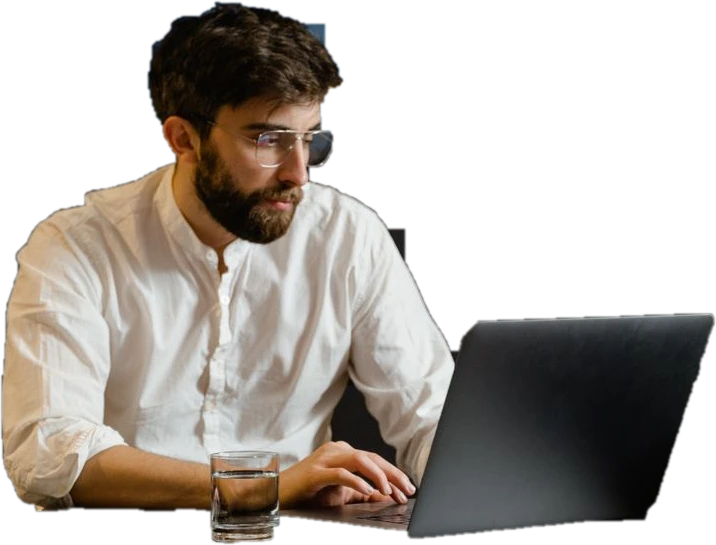
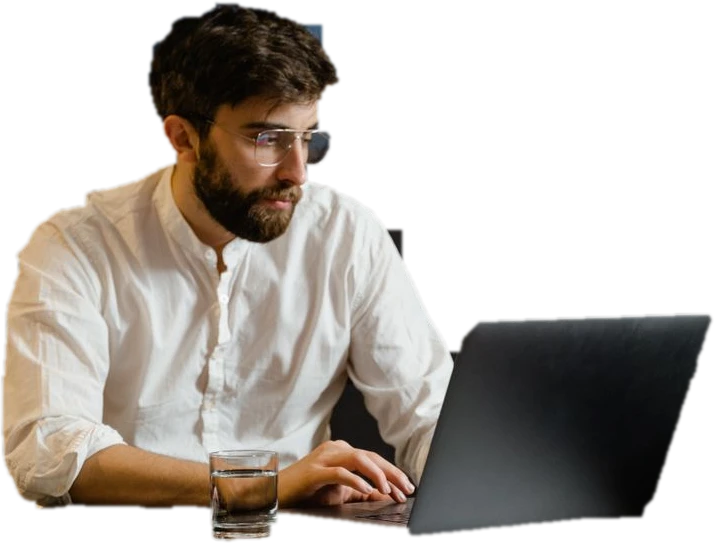
Encabezado: disco de luz tras el analista, recorte más limpio y tarjeta reubicada

diff --git a/frontend/src/styles/layout.css b/frontend/src/styles/layout.css
@@ -216,7 +216,7 @@
   background: url('../assets/fondo.jpg') right center / cover no-repeat;
   filter: grayscale(1) contrast(1.4) brightness(1.15);
   mix-blend-mode: soft-light;
-  opacity: 0.9;
+  opacity: 0.6;
   /* Se desvanece hacia la izquierda para que el texto se lea limpio. */
   -webkit-mask-image: linear-gradient(90deg, rgba(0, 0, 0, 0.18) 0%, rgba(0, 0, 0, 0.35) 38%, #000 72%);
   mask-image: linear-gradient(90deg, rgba(0, 0, 0, 0.18) 0%, rgba(0, 0, 0, 0.35) 38%, #000 72%);
@@ -356,6 +356,32 @@
   position: relative;
   align-self: end;
   margin: 0 0 -56px 24px;
+  isolation: isolate;
+}
+
+/* Disco de luz con un anillo fino detrás del analista: lo integra al rojo. */
+.hero-figura::before,
+.hero-figura::after {
+  content: '';
+  position: absolute;
+  left: 50%;
+  z-index: -1;
+  aspect-ratio: 1;
+  border-radius: 50%;
+  transform: translateX(-50%);
+  pointer-events: none;
+}
+
+.hero-figura::before {
+  bottom: 4%;
+  width: 84%;
+  background: radial-gradient(circle at 50% 38%, rgba(255, 255, 255, 0.3), rgba(255, 255, 255, 0.1) 58%, rgba(255, 255, 255, 0.04) 72%);
+}
+
+.hero-figura::after {
+  bottom: -3%;
+  width: 98%;
+  border: 1px solid rgba(255, 255, 255, 0.22);
 }
 
 /* Foto: Pexels (licencia libre), pexels.com/photo/7567434, con el fondo recortado. */
@@ -371,8 +397,8 @@
 
 .hero-tarjeta {
   position: absolute;
-  bottom: 28px;
-  left: -28px;
+  top: 16%;
+  right: -12px;
   display: flex;
   align-items: center;
   gap: 12px;
